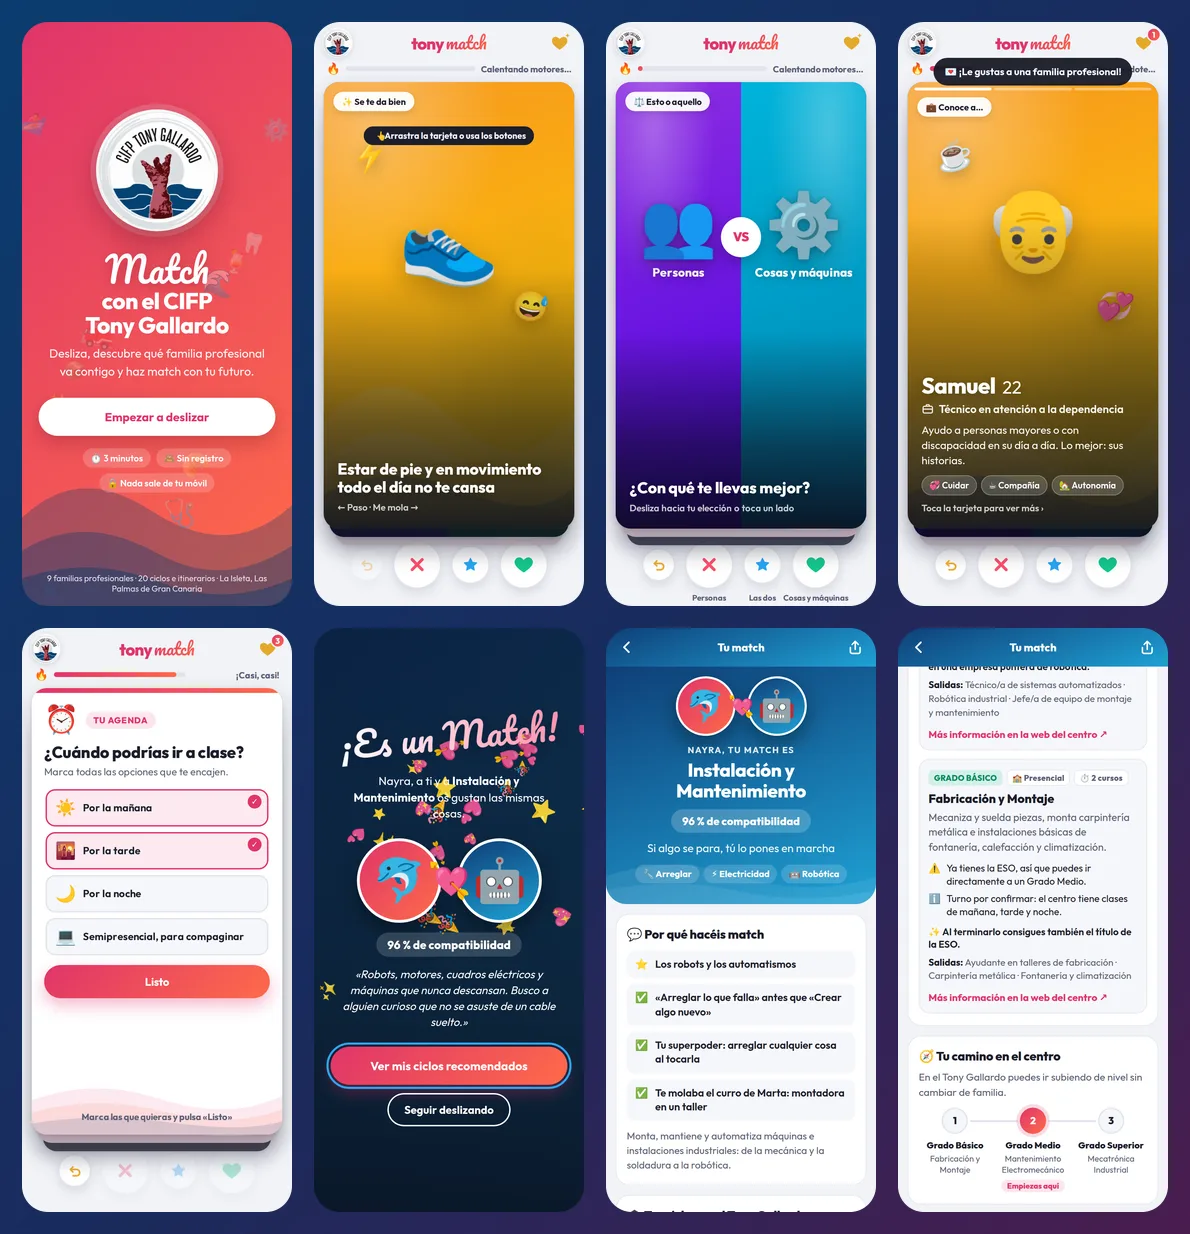
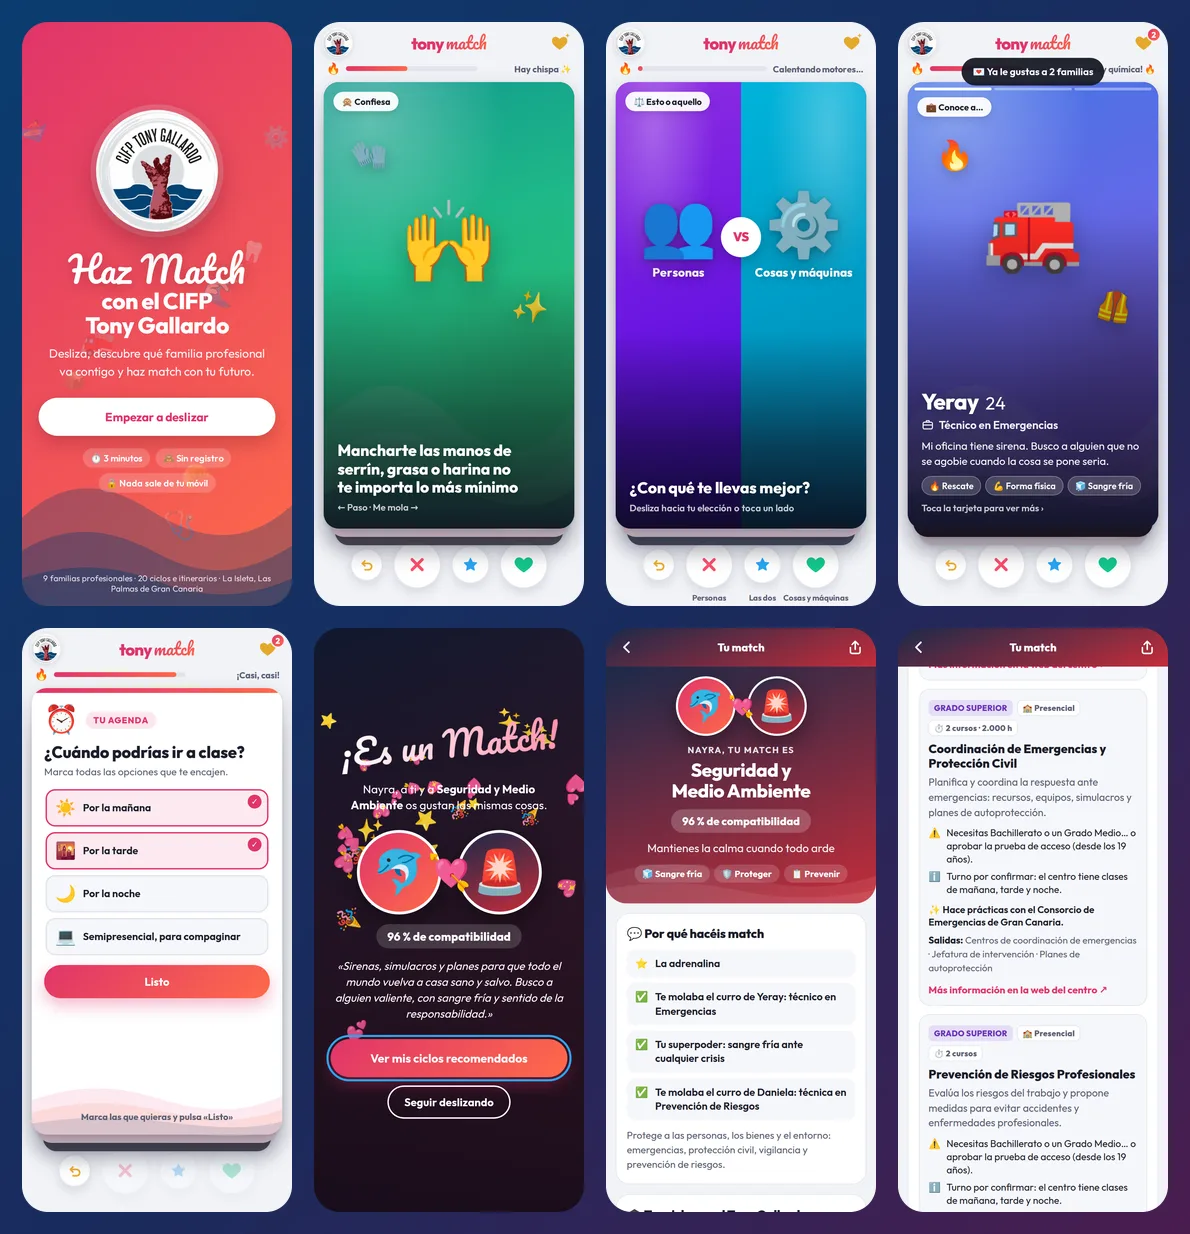
Renombra la app a «Haz Match con el CIFP Tony Gallardo» y añade despliegue
- Nuevo título en la portada («Haz Match» en letra manuscrita), la pestaña,
  el manifiesto, el texto al compartir, el README y los comentarios.
- La portada ya no se corta en pantallas bajas: logo más pequeño y
  desplazamiento si no cabe.
- desplegar.sh sube la web por SSH a <carpeta_web>/Tony_Match con un solo
  comando (solo necesita ssh y tar); el README explica también la subida
  manual por SFTP.
- Imagen del README actualizada con la nueva portada.

Claude-Session: https://claude.ai/code/session_01LrDepPj5eJhEyAMAZ5rmnS

diff --git a/index.html b/index.html
@@ -3,10 +3,10 @@
 <head>
   <meta charset="utf-8">
   <meta name="viewport" content="width=device-width, initial-scale=1, viewport-fit=cover">
-  <title>Match con el CIFP Tony Gallardo</title>
+  <title>Haz Match con el CIFP Tony Gallardo</title>
   <meta name="description" content="Desliza, descubre qué familia profesional va contigo y haz match con tu futuro en el CIFP Tony Gallardo (La Isleta, Las Palmas de Gran Canaria).">
   <meta name="theme-color" content="#E0356A">
-  <meta property="og:title" content="Match con el CIFP Tony Gallardo">
+  <meta property="og:title" content="Haz Match con el CIFP Tony Gallardo">
   <meta property="og:description" content="Desliza, descubre qué familia profesional va contigo y haz match con tu futuro.">
   <meta property="og:type" content="website">
   <link rel="icon" type="image/png" sizes="32x32" href="assets/icons/favicon-32.png">
@@ -49,7 +49,7 @@
       <div class="burbujas" id="burbujas" aria-hidden="true"></div>
       <div class="inicio">
         <img class="inicio__logo" src="assets/logo.webp" alt="Logotipo del CIFP Tony Gallardo" width="176" height="176">
-        <h1 class="inicio__titulo" id="titulo-app" tabindex="-1"><span class="script">Match</span> con el CIFP Tony Gallardo</h1>
+        <h1 class="inicio__titulo" id="titulo-app" tabindex="-1"><span class="script">Haz Match</span> con el CIFP Tony Gallardo</h1>
         <p class="inicio__texto">Desliza, descubre qué familia profesional va contigo y haz match con tu futuro.</p>
         <button class="btn btn--blanco btn--xl" id="btn-comenzar" type="button">Empezar a deslizar</button>
         <ul class="inicio__datos">

diff --git a/js/app.js b/js/app.js
@@ -1,5 +1,5 @@
 /*
- * Interfaz de «Match con el CIFP Tony Gallardo»: pantallas, tarjetas deslizables,
+ * Interfaz de «Haz Match con el CIFP Tony Gallardo»: pantallas, tarjetas deslizables,
  * pantalla de match y resultados. La lógica de puntuación vive en motor.js.
  *
  * Añade ?kiosco a la URL para usarla en una pantalla compartida (jornadas de puertas
@@ -935,7 +935,7 @@
     var url = window.location.href.split('#')[0].split('?')[0];
     var texto = '💘 ¡He hecho match con ' + f.nombre + ' (' + r.pct + ' %) en el CIFP Tony Gallardo! ¿Y tú con qué familia profesional haces match?';
     if (navigator.share) {
-      navigator.share({ title: 'Match con el CIFP Tony Gallardo', text: texto, url: url }).catch(function (err) {
+      navigator.share({ title: 'Haz Match con el CIFP Tony Gallardo', text: texto, url: url }).catch(function (err) {
         // Si la persona cancela no hacemos nada; si el navegador lo bloquea (p. ej. en un iframe), copiamos.
         if (!err || err.name !== 'AbortError') copiar(texto + ' ' + url, url);
       });

diff --git a/css/estilos.css b/css/estilos.css
@@ -1,4 +1,4 @@
-/* Match con el CIFP Tony Gallardo — estilos
+/* Haz Match con el CIFP Tony Gallardo — estilos
    Paleta inspirada en el logo: azul marino de las olas y el granate/frambuesa de la mano. */
 
 @font-face {
@@ -173,8 +173,8 @@ a { color: inherit; }
   background: var(--grad);
   color: #fff;
   align-items: center;
-  justify-content: center;
   text-align: center;
+  overflow-y: auto;
   padding: max(28px, env(safe-area-inset-top)) 24px max(18px, env(safe-area-inset-bottom));
   overflow: hidden;
 }
@@ -219,6 +219,11 @@ a { color: inherit; }
 }
 .inicio__datos li { background: rgba(255, 255, 255, .18); padding: 6px 11px; border-radius: 999px; }
 .inicio__pie { position: relative; z-index: 1; margin: 16px 0 0; font-size: .75rem; opacity: .85; max-width: 330px; }
+@media (max-height: 660px) {
+  .inicio__logo { width: 124px; height: 124px; }
+  .inicio__titulo { margin-top: 16px; }
+  .inicio__texto { margin-bottom: 18px; }
+}
 
 .burbujas { position: absolute; inset: 0; pointer-events: none; overflow: hidden; }
 .burbuja {

diff --git a/js/motor.js b/js/motor.js
@@ -1,5 +1,5 @@
 /*
- * Motor de «Match con el CIFP Tony Gallardo».
+ * Motor de «Haz Match con el CIFP Tony Gallardo».
  *
  * Cada respuesta suma (o resta) puntos a las familias profesionales. La afinidad de
  * una familia es la proporción de puntos conseguidos sobre los posibles, suavizada

diff --git a/js/tarjetas.js b/js/tarjetas.js
@@ -1,5 +1,5 @@
 /*
- * Mazo de tarjetas de «Match con el CIFP Tony Gallardo».
+ * Mazo de tarjetas de «Haz Match con el CIFP Tony Gallardo».
  *
  * Tipos:
  *   gusto     Afirmación sobre gustos, manías o situaciones. Like / paso / superlike.

diff --git a/README.md b/README.md
@@ -1,4 +1,4 @@
-# 💘 Match con el CIFP Tony Gallardo
+# 💘 Haz Match con el CIFP Tony Gallardo
 
 Web app al estilo Tinder para descubrir con qué **familia profesional** del
 [CIFP Tony Gallardo](https://www3.gobiernodecanarias.org/medusa/edublog/cifptonygallardo/)
@@ -96,12 +96,24 @@ python3 -m http.server 8080
 
 **Publicarla**
 
+- **En tu servidor, en la carpeta `Tony_Match`**, con un solo comando desde un ordenador con
+  `ssh` (Linux, Mac, o Windows con Git Bash o WSL):
+
+  ```bash
+  ./desplegar.sh usuario@tu-servidor /var/www/html ~/.ssh/tu-clave
+  ```
+
+  Sube solo los archivos de la web a `/var/www/html/Tony_Match` (cambia la ruta si tu
+  servidor publica otra carpeta). Si el servidor tiene `git`, también vale entrar en él y
+  clonar el repositorio en esa carpeta. Y sin terminal: sube por SFTP (FileZilla, WinSCP…)
+  `index.html`, `manifest.webmanifest` y las carpetas `css`, `js` y `assets` a una carpeta
+  `Tony_Match`.
 - **GitHub Pages**: *Settings → Pages → Deploy from a branch*, rama principal y carpeta raíz.
 - **Cualquier hosting estático**: basta con subir la carpeta tal cual.
 - **Dentro del blog del centro**, con un iframe:
 
   ```html
-  <iframe src="https://TU-DIRECCION/" title="Match con el CIFP Tony Gallardo"
+  <iframe src="https://TU-DIRECCION/" title="Haz Match con el CIFP Tony Gallardo"
           width="420" height="820" style="border:0;border-radius:24px;max-width:100%"></iframe>
   ```
 
